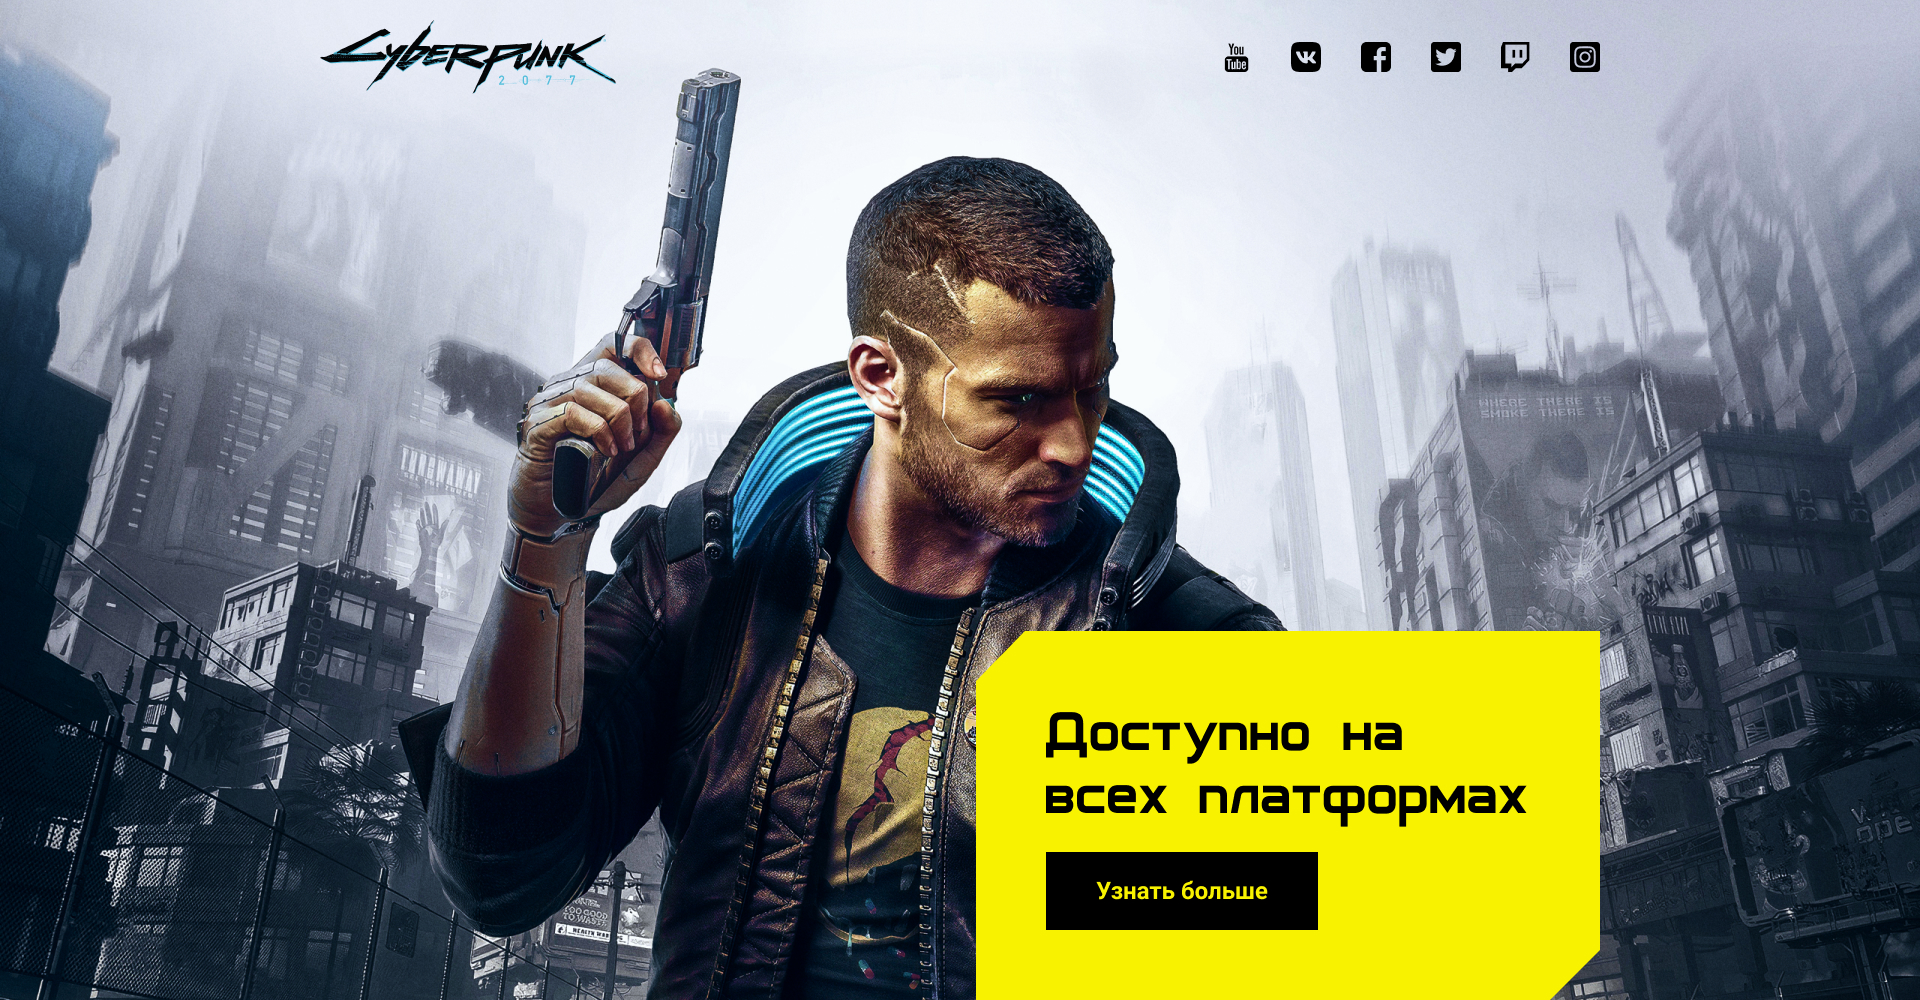
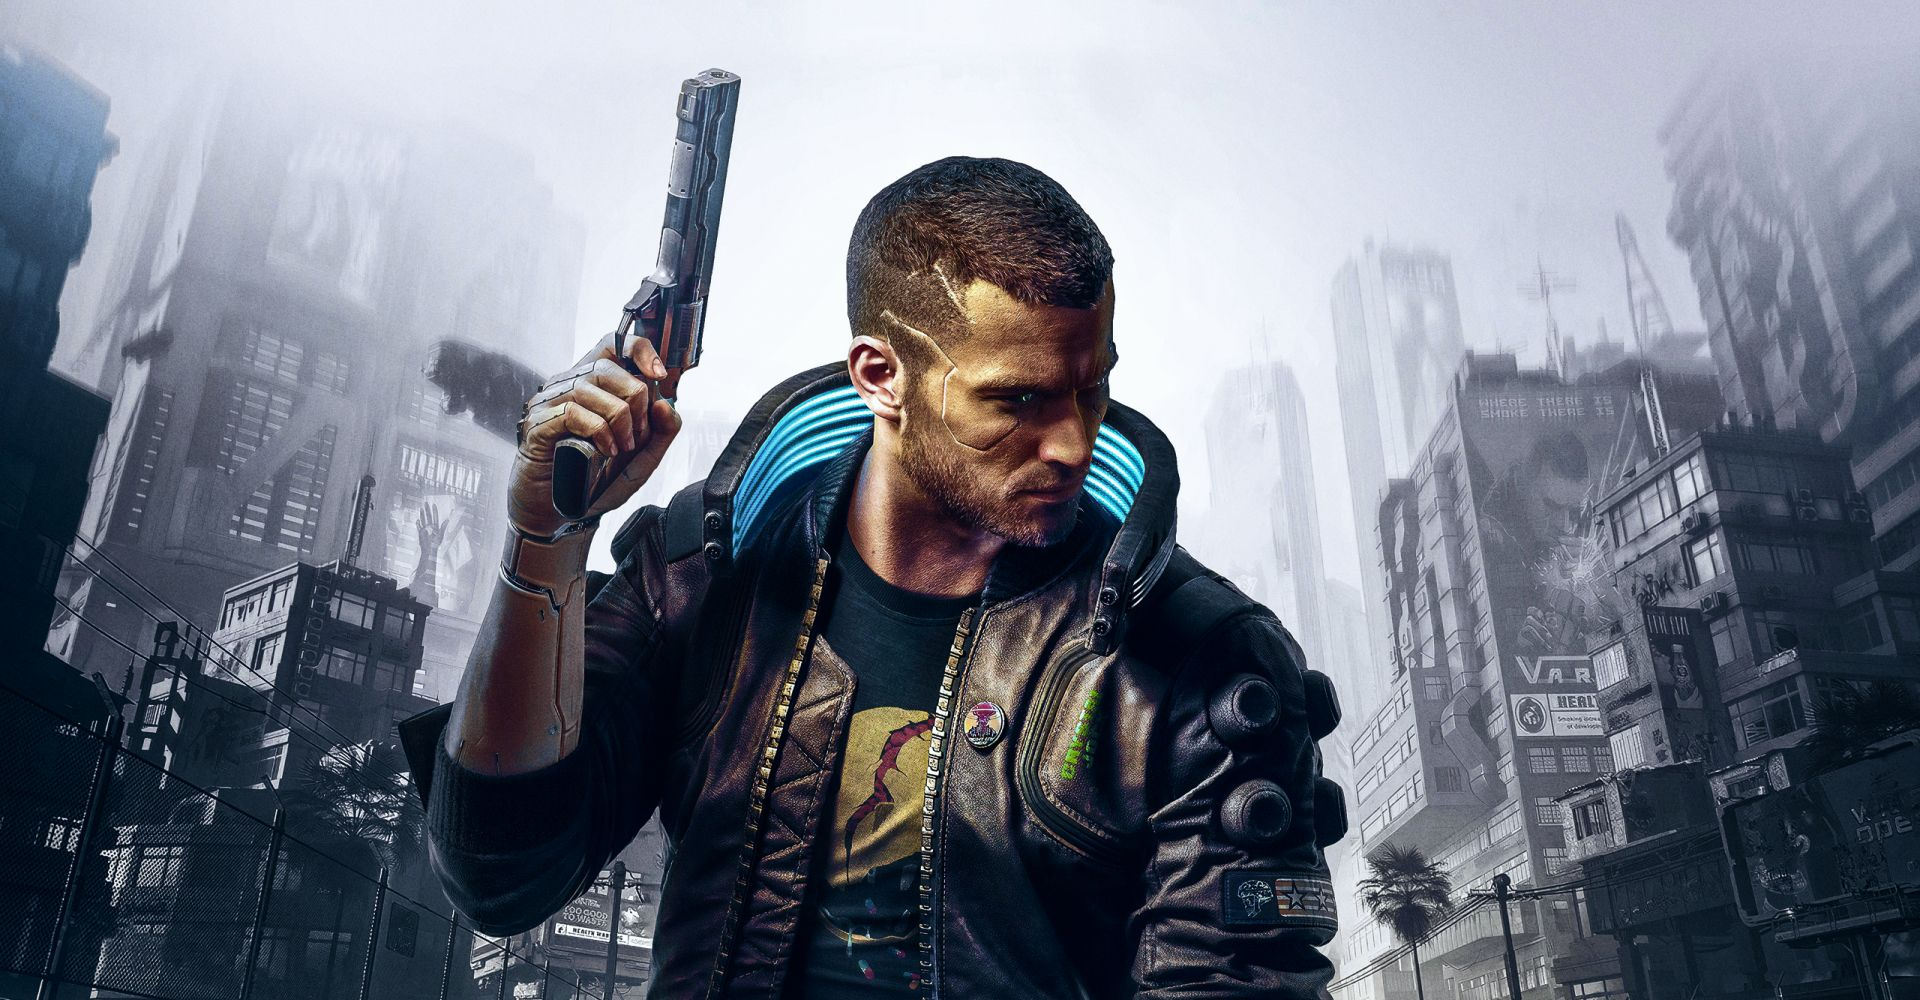
home-intro: finished

diff --git a/style.css b/style.css
@@ -1,48 +1,54 @@
+:root {
+    --accent: #F8F200;
+    --font-1: "Roboto", sans-serif;
+    --font-2: "Archangelsk", sans-serif;
+}
+
 @font-face {
     font-family: 'Roboto';
-    src: url('Roboto-Bold.eot');
+    src: url('fonts/Roboto-Bold.eot');
     src: local('Roboto Bold'), local('Roboto-Bold'),
-        url('Roboto-Bold.eot?#iefix') format('embedded-opentype'),
-        url('Roboto-Bold.woff2') format('woff2'),
-        url('Roboto-Bold.woff') format('woff'),
-        url('Roboto-Bold.ttf') format('truetype');
+        url('fonts/Roboto-Bold.eot?#iefix') format('embedded-opentype'),
+        url('fonts/Roboto-Bold.woff2') format('woff2'),
+        url('fonts/Roboto-Bold.woff') format('woff'),
+        url('fonts/Roboto-Bold.ttf') format('truetype');
     font-weight: bold;
     font-style: normal;
 }
 
 @font-face {
     font-family: 'Roboto';
-    src: url('Roboto-Regular.eot');
+    src: url('fonts/Roboto-Regular.eot');
     src: local('Roboto'), local('Roboto-Regular'),
-        url('Roboto-Regular.eot?#iefix') format('embedded-opentype'),
-        url('Roboto-Regular.woff2') format('woff2'),
-        url('Roboto-Regular.woff') format('woff'),
-        url('Roboto-Regular.ttf') format('truetype');
+        url('fonts/Roboto-Regular.eot?#iefix') format('embedded-opentype'),
+        url('fonts/Roboto-Regular.woff2') format('woff2'),
+        url('fonts/Roboto-Regular.woff') format('woff'),
+        url('fonts/Roboto-Regular.ttf') format('truetype');
     font-weight: normal;
     font-style: normal;
 }
 
 @font-face {
     font-family: 'Roboto';
-    src: url('Roboto-LightItalic.eot');
+    src: url('fonts/Roboto-LightItalic.eot');
     src: local('Roboto Light Italic'), local('Roboto-LightItalic'),
-        url('Roboto-LightItalic.eot?#iefix') format('embedded-opentype'),
-        url('Roboto-LightItalic.woff2') format('woff2'),
-        url('Roboto-LightItalic.woff') format('woff'),
-        url('Roboto-LightItalic.ttf') format('truetype');
+        url('fonts/Roboto-LightItalic.eot?#iefix') format('embedded-opentype'),
+        url('fonts/Roboto-LightItalic.woff2') format('woff2'),
+        url('fonts/Roboto-LightItalic.woff') format('woff'),
+        url('fonts/Roboto-LightItalic.ttf') format('truetype');
     font-weight: 300;
     font-style: italic;
 }
 
 @font-face {
-	font-family: 'Archangelsk';
-	src: url('Archangelsk.eot');
-	src: local('Archangelsk'),
-		url('Archangelsk.eot?#iefix') format('embedded-opentype'),
-		url('Archangelsk.woff') format('woff'),
-		url('Archangelsk.ttf') format('truetype');
-	font-weight: normal;
-	font-style: normal;
+    font-family: 'Archangelsk';
+    src: url('fonts/Archangelsk.eot');
+    src: local('Archangelsk'),
+        url('fonts/Archangelsk.eot?#iefix') format('embedded-opentype'),
+        url('fonts/Archangelsk.woff') format('woff'),
+        url('fonts/Archangelsk.ttf') format('truetype');
+    font-weight: normal;
+    font-style: normal;
 }
 
 * {
@@ -57,10 +63,12 @@ a {
 }
 
 body {
+    position: relative;
+    padding-bottom: 1000px;
     font-size: 18px;
+    font-family: var(--font-1);
     color: black;
     background: white;
-    position: relative;
 }
 
 body::after {
@@ -68,6 +76,7 @@ body::after {
     position: absolute;
     top: 0;
     left: 50%;
+    display: none;
     width: 1px;
     height: 100vh;
     background: green;
@@ -110,7 +119,55 @@ li {
     margin-left: 40px;
 }
 
-
 .header-social__link img {
     vertical-align: middle;
+}
+
+.home-intro {
+    position: relative;
+    height: 1000px;
+}
+
+.home-intro__img {
+    position: absolute;
+    top: 0;
+    left: 0;
+    width: 100%;
+    height: 100%;
+    object-fit: cover;
+    z-index: 1;
+}
+
+.home-intro .container {
+    position: relative;
+    height: 100%;
+    z-index: 2;
+}
+
+.home-intro__content {
+    position: absolute;
+    bottom: 0;
+    right: 0;
+    padding: 70px;
+    width: 624px;
+    background: var(--accent);
+    -webkit-clip-path: polygon(8% 0, 100% 0, 100% 86%, 92% 100%, 0 100%, 0 14%);
+    clip-path: polygon(8% 0, 100% 0, 100% 86%, 92% 100%, 0 100%, 0 14%);
+}
+
+.home-intro__title {
+    margin-bottom: 25px;
+    font-family: var(--font-2);
+    font-size: 62px;
+    font-weight: normal;
+    line-height: 1.04;
+}
+
+.btn {
+    display: inline-block;
+    padding: 24px 50px;
+    font-size: 24px;
+    font-weight: 700;
+    color: var(--accent);
+    background: #000;
 }

diff --git a/index.html b/index.html
@@ -1,6 +1,7 @@
 <!DOCTYPE html>
 <html lang="en">
 
+
 <head>
     <meta charset="UTF-8">
     <meta name="viewport" content="width=device-width, initial-scale=1.0">
@@ -47,9 +48,19 @@
                         </a>
                     </li>
                 </ul>
-</div>            </div>
+            </div>
+        </div>
         </div>
     </header>
+    <section class="home-intro">
+        <img src="img/home-intro.jpg" alt="" class="home-intro__img">
+        <div class="container">
+            <div class="home-intro__content">
+                <h1 class="home-intro__title">Доступно на всех платформах</h1>
+                <a href="#" class="btn">Узнать больше</a>
+            </div>
+        </div>
+    </section>
 </body>
 
 </html>
